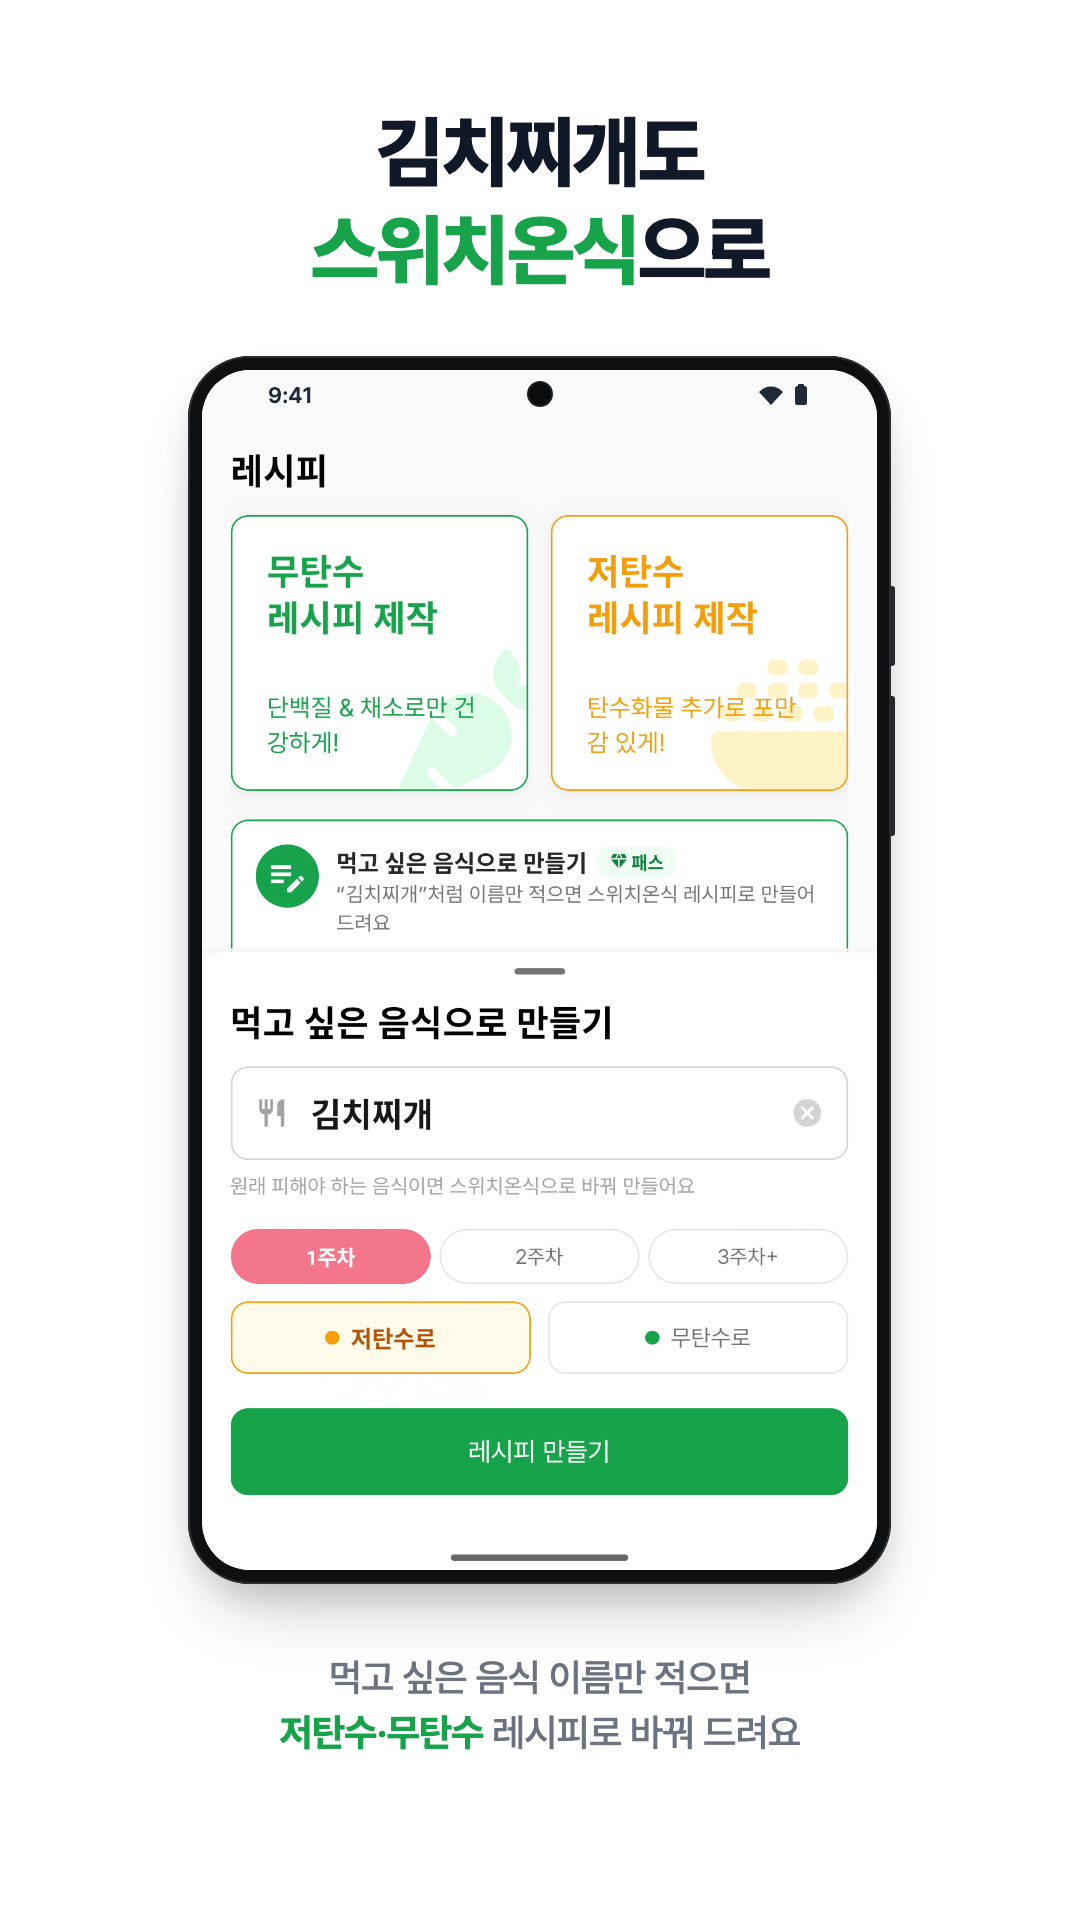
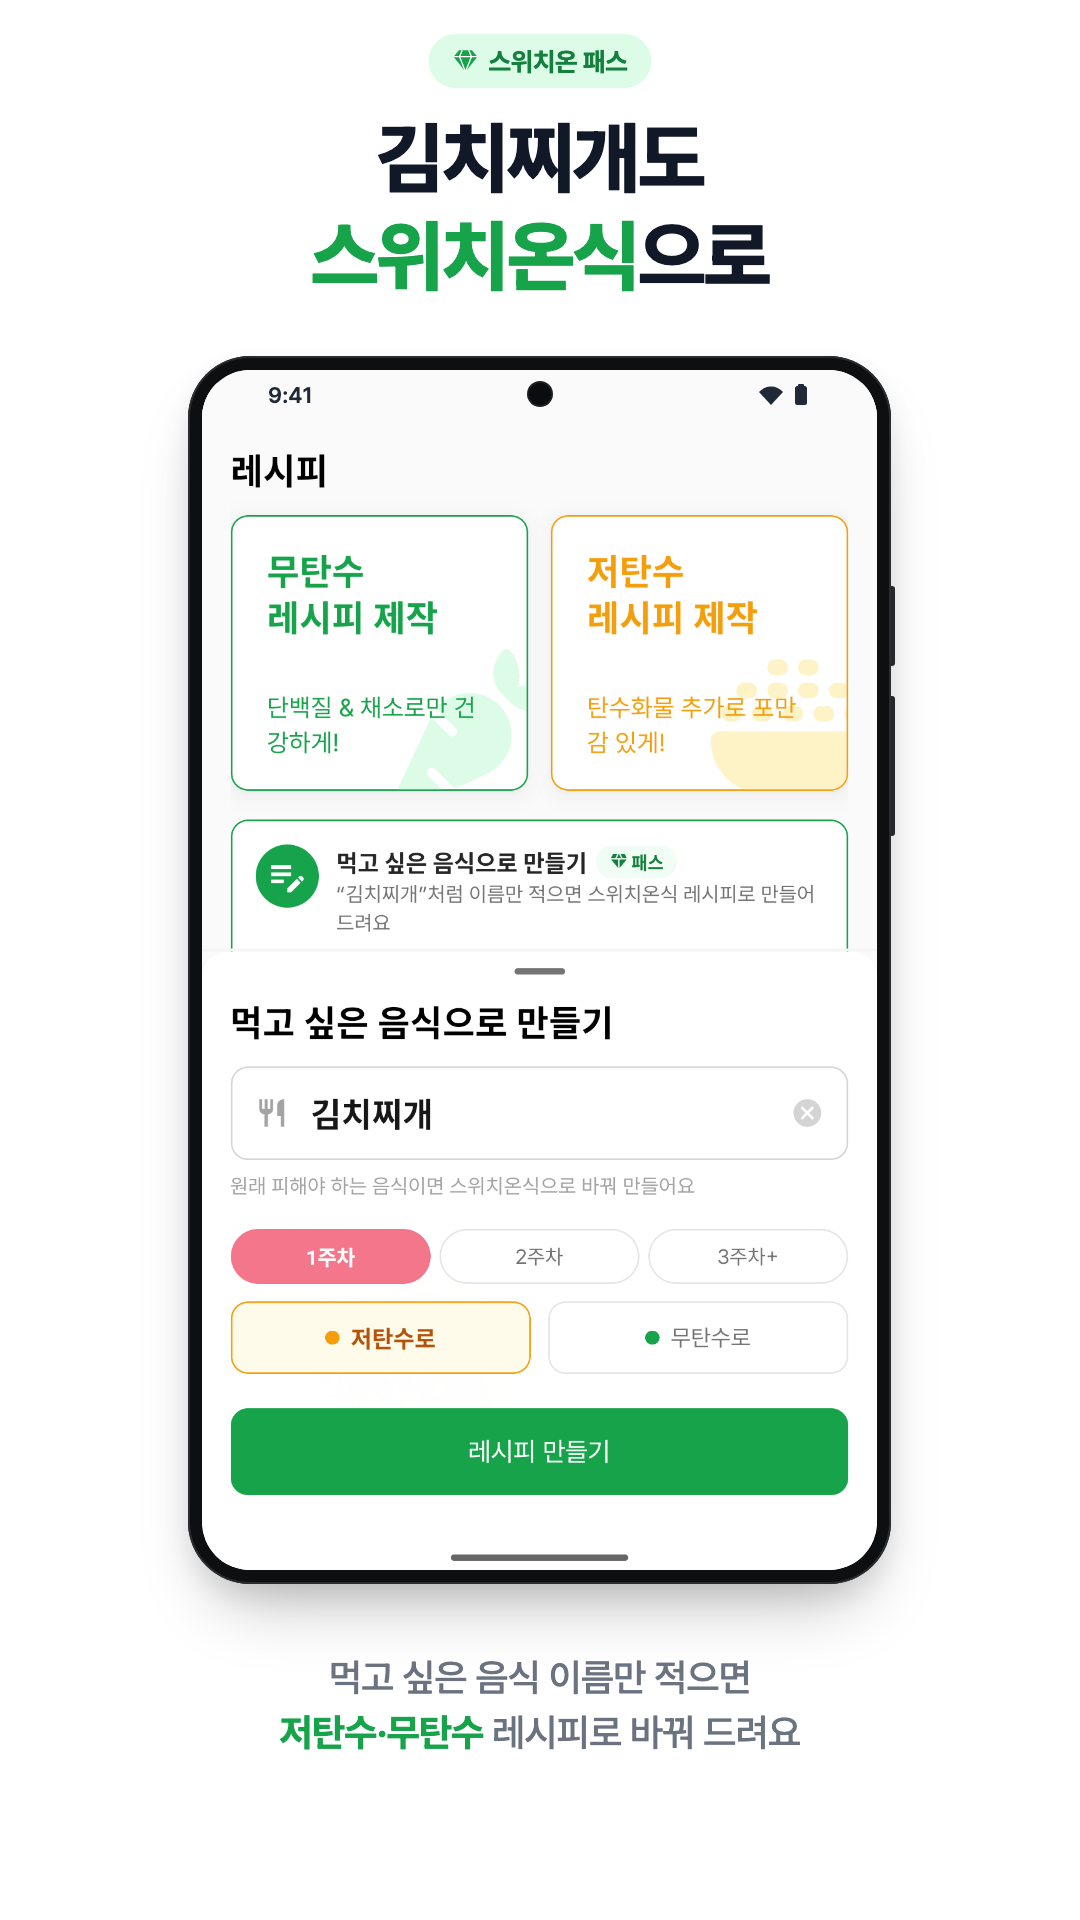
📱 스토어 스크린샷: 패스 기능(3·4번)에 '스위치온 패스', 리포트(5번)에 '첫 리포트 무료 · 매주는 패스' 배지

Changed region(s): [[0.275, 0.0, 0.7333, 0.1562]]

diff --git a/docs/store/src/phone-5.html b/docs/store/src/phone-5.html
@@ -8,7 +8,7 @@
 html,body{width:1080px;height:1920px;overflow:hidden;background:#fff}
 body{font-family:"Pretendard",sans-serif;position:relative;color:var(--ink);text-align:center}
 g{color:var(--green)}
-h1{position:absolute;left:60px;right:60px;top:104px;font-size:78px;line-height:1.26;font-weight:800;letter-spacing:-.025em;word-break:keep-all}
+h1{position:absolute;left:60px;right:60px;top:110px;font-size:78px;line-height:1.26;font-weight:800;letter-spacing:-.025em;word-break:keep-all}
 .phone{position:absolute;left:188px;top:356px;width:703px;height:1228px;border-radius:62px;background:var(--bezel);padding:14px;
  box-shadow:0 0 0 2px #2a2c2f inset,0 40px 70px -26px rgba(0,0,0,.28),0 12px 26px rgba(0,0,0,.08)}
 .btn{position:absolute;right:-4px;width:4px;background:#26292c;border-radius:0 3px 3px 0}
@@ -20,8 +20,13 @@ h1{position:absolute;left:60px;right:60px;top:104px;font-size:78px;line-height:1
 .cam{position:absolute;left:50%;top:13px;width:22px;height:22px;margin-left:-11px;border-radius:50%;background:#0b0c0d;box-shadow:0 0 0 2px #1d1f22}
 p.cap{position:absolute;left:140px;right:140px;top:1650px;font-size:38px;line-height:1.45;font-weight:500;color:var(--gray);letter-spacing:-.015em;word-break:keep-all}
 p.cap g{font-weight:700}
+.badge{position:absolute;left:50%;top:34px;transform:translateX(-50%);display:inline-flex;align-items:center;gap:10px;height:54px;padding:0 24px;border-radius:999px;font-size:26px;font-weight:700;letter-spacing:-.01em;white-space:nowrap}
+.badge.pass{background:#DCFCE7;color:#15803D}
+.badge.free{background:#fff;color:#15803D;box-shadow:0 0 0 2.5px #16A34A inset}
+.badge svg{display:block}
 </style></head>
 <body>
+<div class="badge free"><svg width="26" height="24" viewBox="0 0 24 22"><path d="M6 1h12l5 6-11 14L1 7z" fill="#16A34A"/><path d="M1 7h22M9 1 6.5 7 12 21 17.5 7 15 1" stroke="#fff" stroke-width="1.2" fill="none" stroke-linejoin="round"/></svg>첫 리포트 무료 · 매주는 패스</div>
 <h1>한 주를 정리해<br><g>다음 주 할 일</g>까지</h1>
 <div class="phone"><span class="btn b1"></span><span class="btn b2"></span><div class="screen"><img src="../raw/5-weekly-report.png" alt=""><div class="sb"><span>9:41</span><svg width="56" height="22" viewBox="0 0 56 22"><path d="M2 8a16 16 0 0 1 24 0l-12 13z" fill="#1f2937"/><rect x="38" y="2" width="12" height="19" rx="2.5" fill="#1f2937"/><rect x="41" y="0" width="6" height="3" rx="1" fill="#1f2937"/></svg></div><span class="cam"></span></div></div>
 

diff --git a/docs/store/src/phone-4.html b/docs/store/src/phone-4.html
@@ -8,7 +8,7 @@
 html,body{width:1080px;height:1920px;overflow:hidden;background:#fff}
 body{font-family:"Pretendard",sans-serif;position:relative;color:var(--ink);text-align:center}
 g{color:var(--green)}
-h1{position:absolute;left:60px;right:60px;top:104px;font-size:78px;line-height:1.26;font-weight:800;letter-spacing:-.025em;word-break:keep-all}
+h1{position:absolute;left:60px;right:60px;top:110px;font-size:78px;line-height:1.26;font-weight:800;letter-spacing:-.025em;word-break:keep-all}
 .phone{position:absolute;left:188px;top:356px;width:703px;height:1228px;border-radius:62px;background:var(--bezel);padding:14px;
  box-shadow:0 0 0 2px #2a2c2f inset,0 40px 70px -26px rgba(0,0,0,.28),0 12px 26px rgba(0,0,0,.08)}
 .btn{position:absolute;right:-4px;width:4px;background:#26292c;border-radius:0 3px 3px 0}
@@ -20,8 +20,13 @@ h1{position:absolute;left:60px;right:60px;top:104px;font-size:78px;line-height:1
 .cam{position:absolute;left:50%;top:13px;width:22px;height:22px;margin-left:-11px;border-radius:50%;background:#0b0c0d;box-shadow:0 0 0 2px #1d1f22}
 p.cap{position:absolute;left:140px;right:140px;top:1650px;font-size:38px;line-height:1.45;font-weight:500;color:var(--gray);letter-spacing:-.015em;word-break:keep-all}
 p.cap g{font-weight:700}
+.badge{position:absolute;left:50%;top:34px;transform:translateX(-50%);display:inline-flex;align-items:center;gap:10px;height:54px;padding:0 24px;border-radius:999px;font-size:26px;font-weight:700;letter-spacing:-.01em;white-space:nowrap}
+.badge.pass{background:#DCFCE7;color:#15803D}
+.badge.free{background:#fff;color:#15803D;box-shadow:0 0 0 2.5px #16A34A inset}
+.badge svg{display:block}
 </style></head>
 <body>
+<div class="badge pass"><svg width="26" height="24" viewBox="0 0 24 22"><path d="M6 1h12l5 6-11 14L1 7z" fill="#16A34A"/><path d="M1 7h22M9 1 6.5 7 12 21 17.5 7 15 1" stroke="#fff" stroke-width="1.2" fill="none" stroke-linejoin="round"/></svg>스위치온 패스</div>
 <h1>먹어도 될까?<br><g>사진 한 장</g>이면 알려줘요</h1>
 <div class="phone"><span class="btn b1"></span><span class="btn b2"></span><div class="screen"><img src="../raw/4-food-check.png" alt=""><div class="sb"><span>9:41</span><svg width="56" height="22" viewBox="0 0 56 22"><path d="M2 8a16 16 0 0 1 24 0l-12 13z" fill="#1f2937"/><rect x="38" y="2" width="12" height="19" rx="2.5" fill="#1f2937"/><rect x="41" y="0" width="6" height="3" rx="1" fill="#1f2937"/></svg></div><span class="cam"></span></div></div>
 

diff --git a/docs/store/src/phone-3.html b/docs/store/src/phone-3.html
@@ -8,7 +8,7 @@
 html,body{width:1080px;height:1920px;overflow:hidden;background:#fff}
 body{font-family:"Pretendard",sans-serif;position:relative;color:var(--ink);text-align:center}
 g{color:var(--green)}
-h1{position:absolute;left:60px;right:60px;top:104px;font-size:78px;line-height:1.26;font-weight:800;letter-spacing:-.025em;word-break:keep-all}
+h1{position:absolute;left:60px;right:60px;top:110px;font-size:78px;line-height:1.26;font-weight:800;letter-spacing:-.025em;word-break:keep-all}
 .phone{position:absolute;left:188px;top:356px;width:703px;height:1228px;border-radius:62px;background:var(--bezel);padding:14px;
  box-shadow:0 0 0 2px #2a2c2f inset,0 40px 70px -26px rgba(0,0,0,.28),0 12px 26px rgba(0,0,0,.08)}
 .btn{position:absolute;right:-4px;width:4px;background:#26292c;border-radius:0 3px 3px 0}
@@ -20,8 +20,13 @@ h1{position:absolute;left:60px;right:60px;top:104px;font-size:78px;line-height:1
 .cam{position:absolute;left:50%;top:13px;width:22px;height:22px;margin-left:-11px;border-radius:50%;background:#0b0c0d;box-shadow:0 0 0 2px #1d1f22}
 p.cap{position:absolute;left:140px;right:140px;top:1650px;font-size:38px;line-height:1.45;font-weight:500;color:var(--gray);letter-spacing:-.015em;word-break:keep-all}
 p.cap g{font-weight:700}
+.badge{position:absolute;left:50%;top:34px;transform:translateX(-50%);display:inline-flex;align-items:center;gap:10px;height:54px;padding:0 24px;border-radius:999px;font-size:26px;font-weight:700;letter-spacing:-.01em;white-space:nowrap}
+.badge.pass{background:#DCFCE7;color:#15803D}
+.badge.free{background:#fff;color:#15803D;box-shadow:0 0 0 2.5px #16A34A inset}
+.badge svg{display:block}
 </style></head>
 <body>
+<div class="badge pass"><svg width="26" height="24" viewBox="0 0 24 22"><path d="M6 1h12l5 6-11 14L1 7z" fill="#16A34A"/><path d="M1 7h22M9 1 6.5 7 12 21 17.5 7 15 1" stroke="#fff" stroke-width="1.2" fill="none" stroke-linejoin="round"/></svg>스위치온 패스</div>
 <h1>김치찌개도<br><g>스위치온식</g>으로</h1>
 <div class="phone"><span class="btn b1"></span><span class="btn b2"></span><div class="screen"><img src="../raw/3-by-name.png" alt=""><div class="sb"><span>9:41</span><svg width="56" height="22" viewBox="0 0 56 22"><path d="M2 8a16 16 0 0 1 24 0l-12 13z" fill="#1f2937"/><rect x="38" y="2" width="12" height="19" rx="2.5" fill="#1f2937"/><rect x="41" y="0" width="6" height="3" rx="1" fill="#1f2937"/></svg></div><span class="cam"></span></div></div>
 
